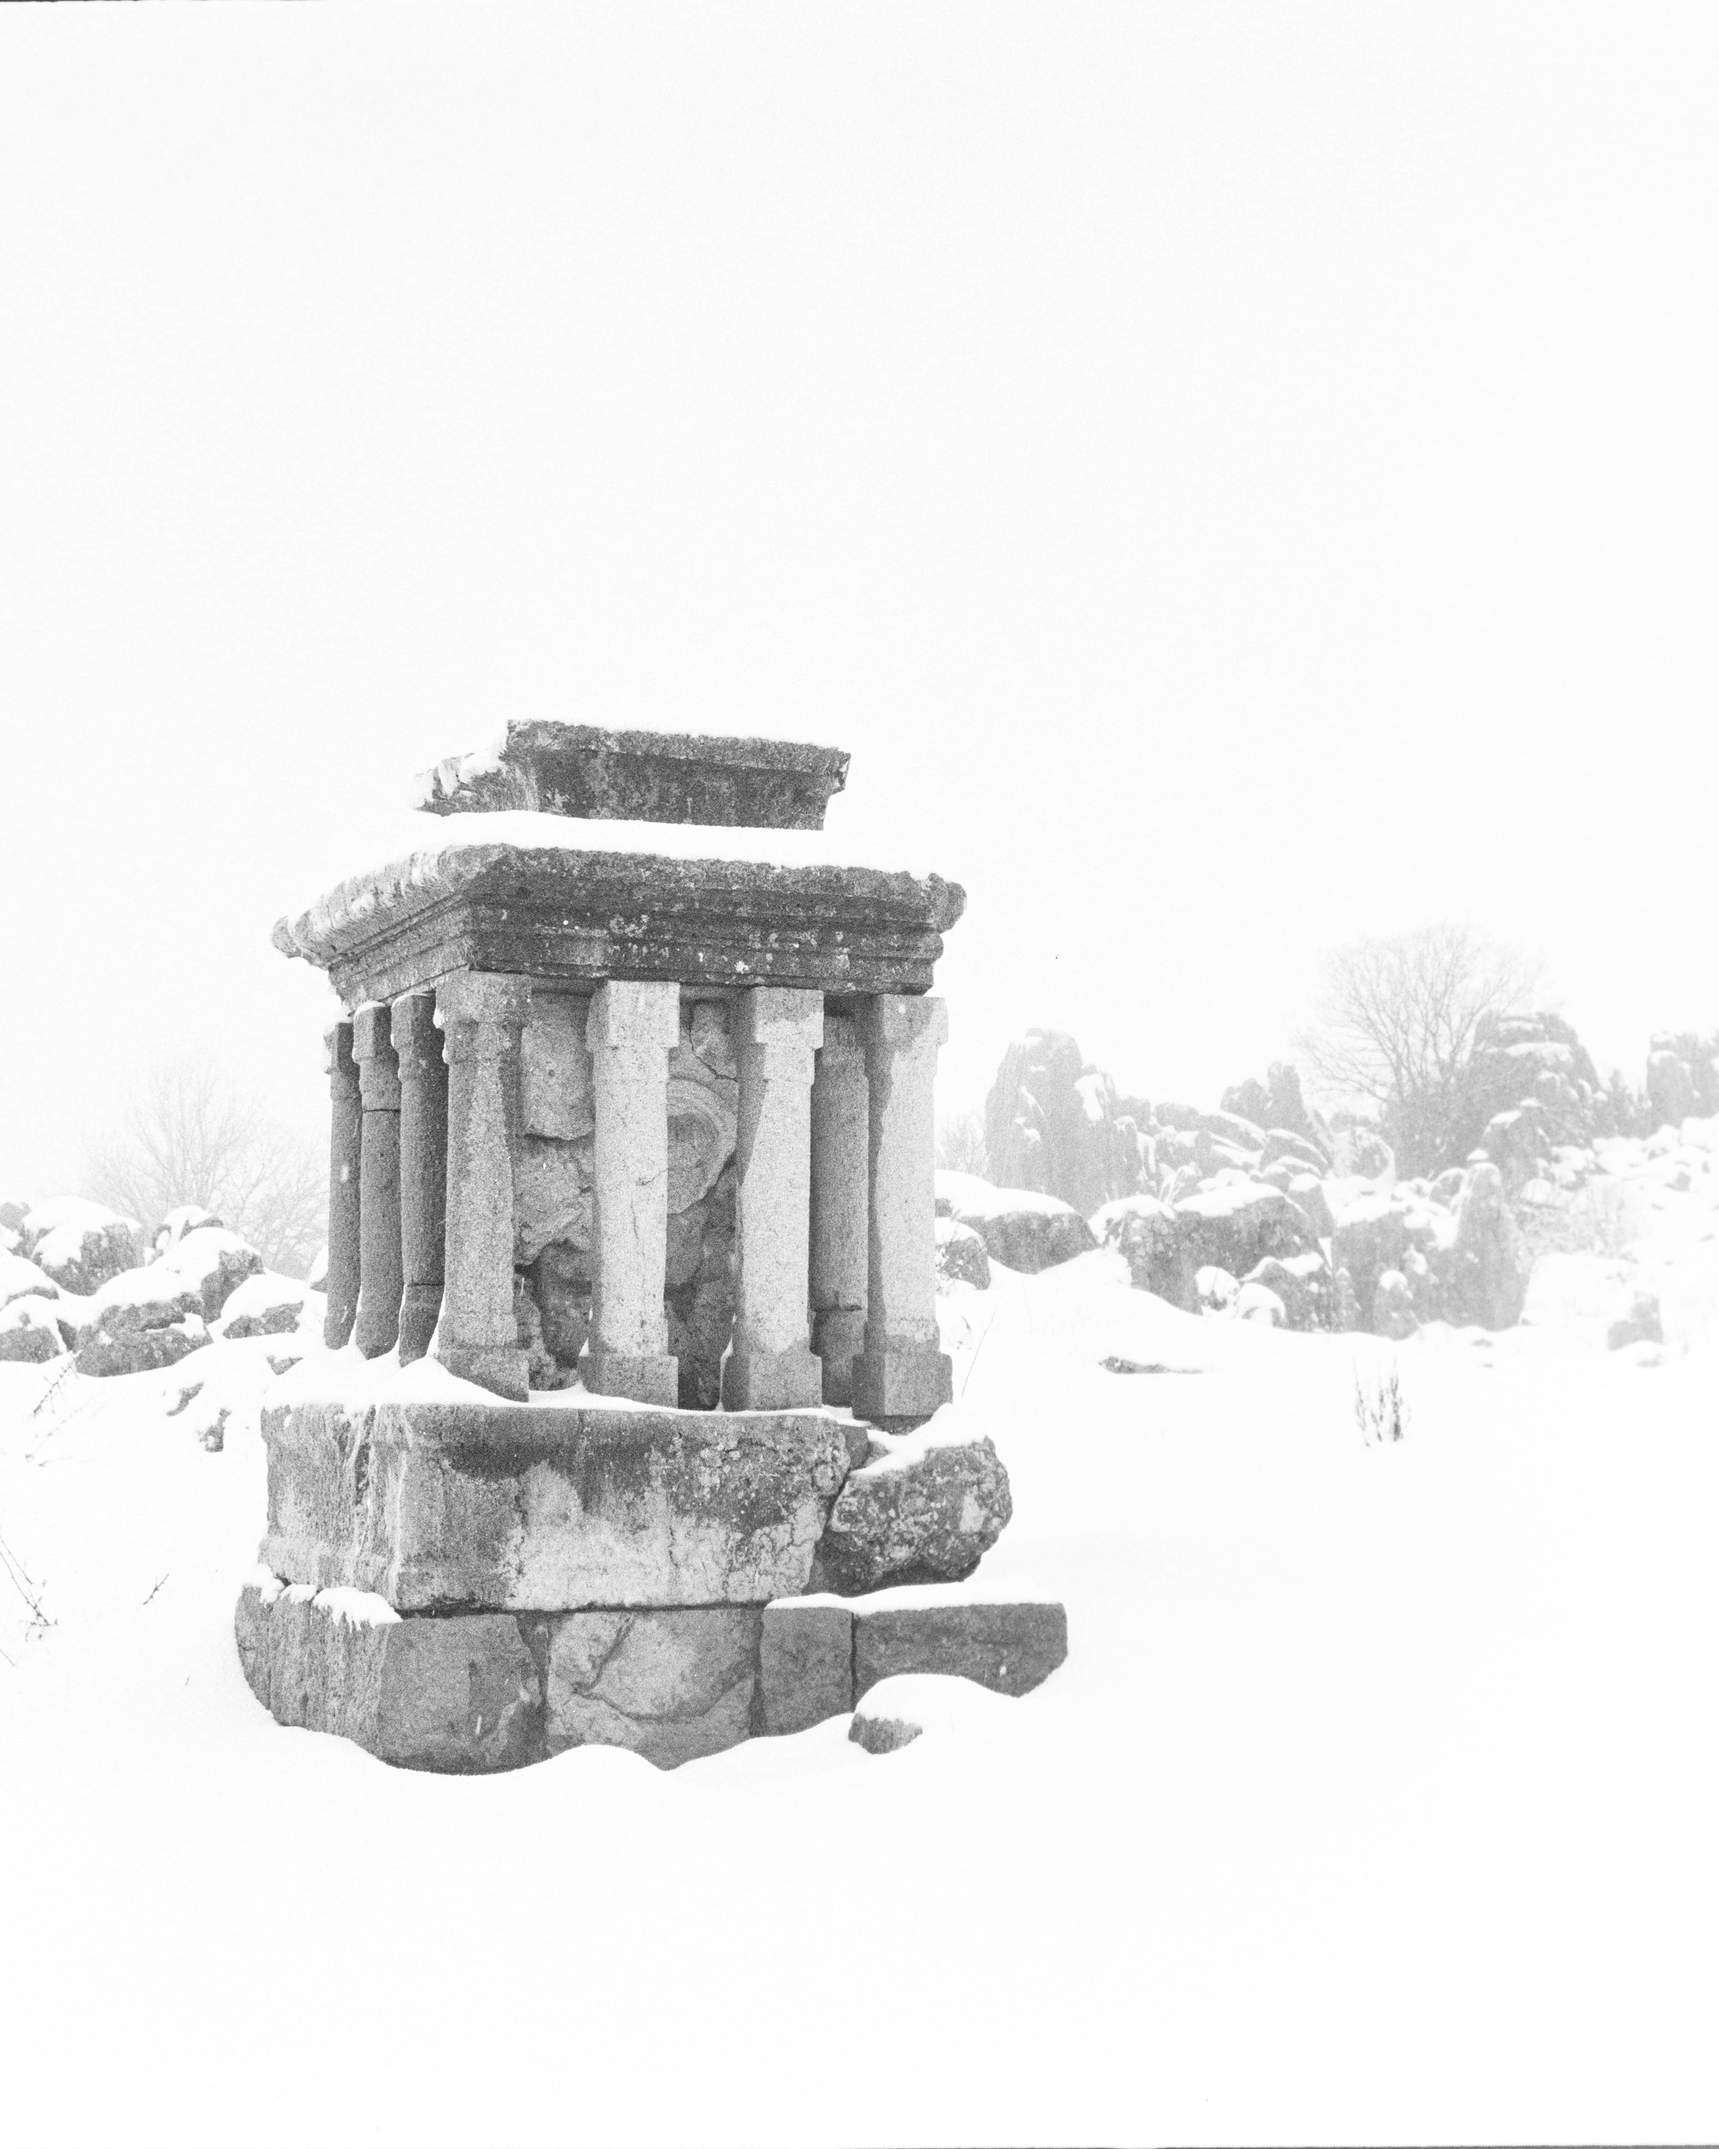
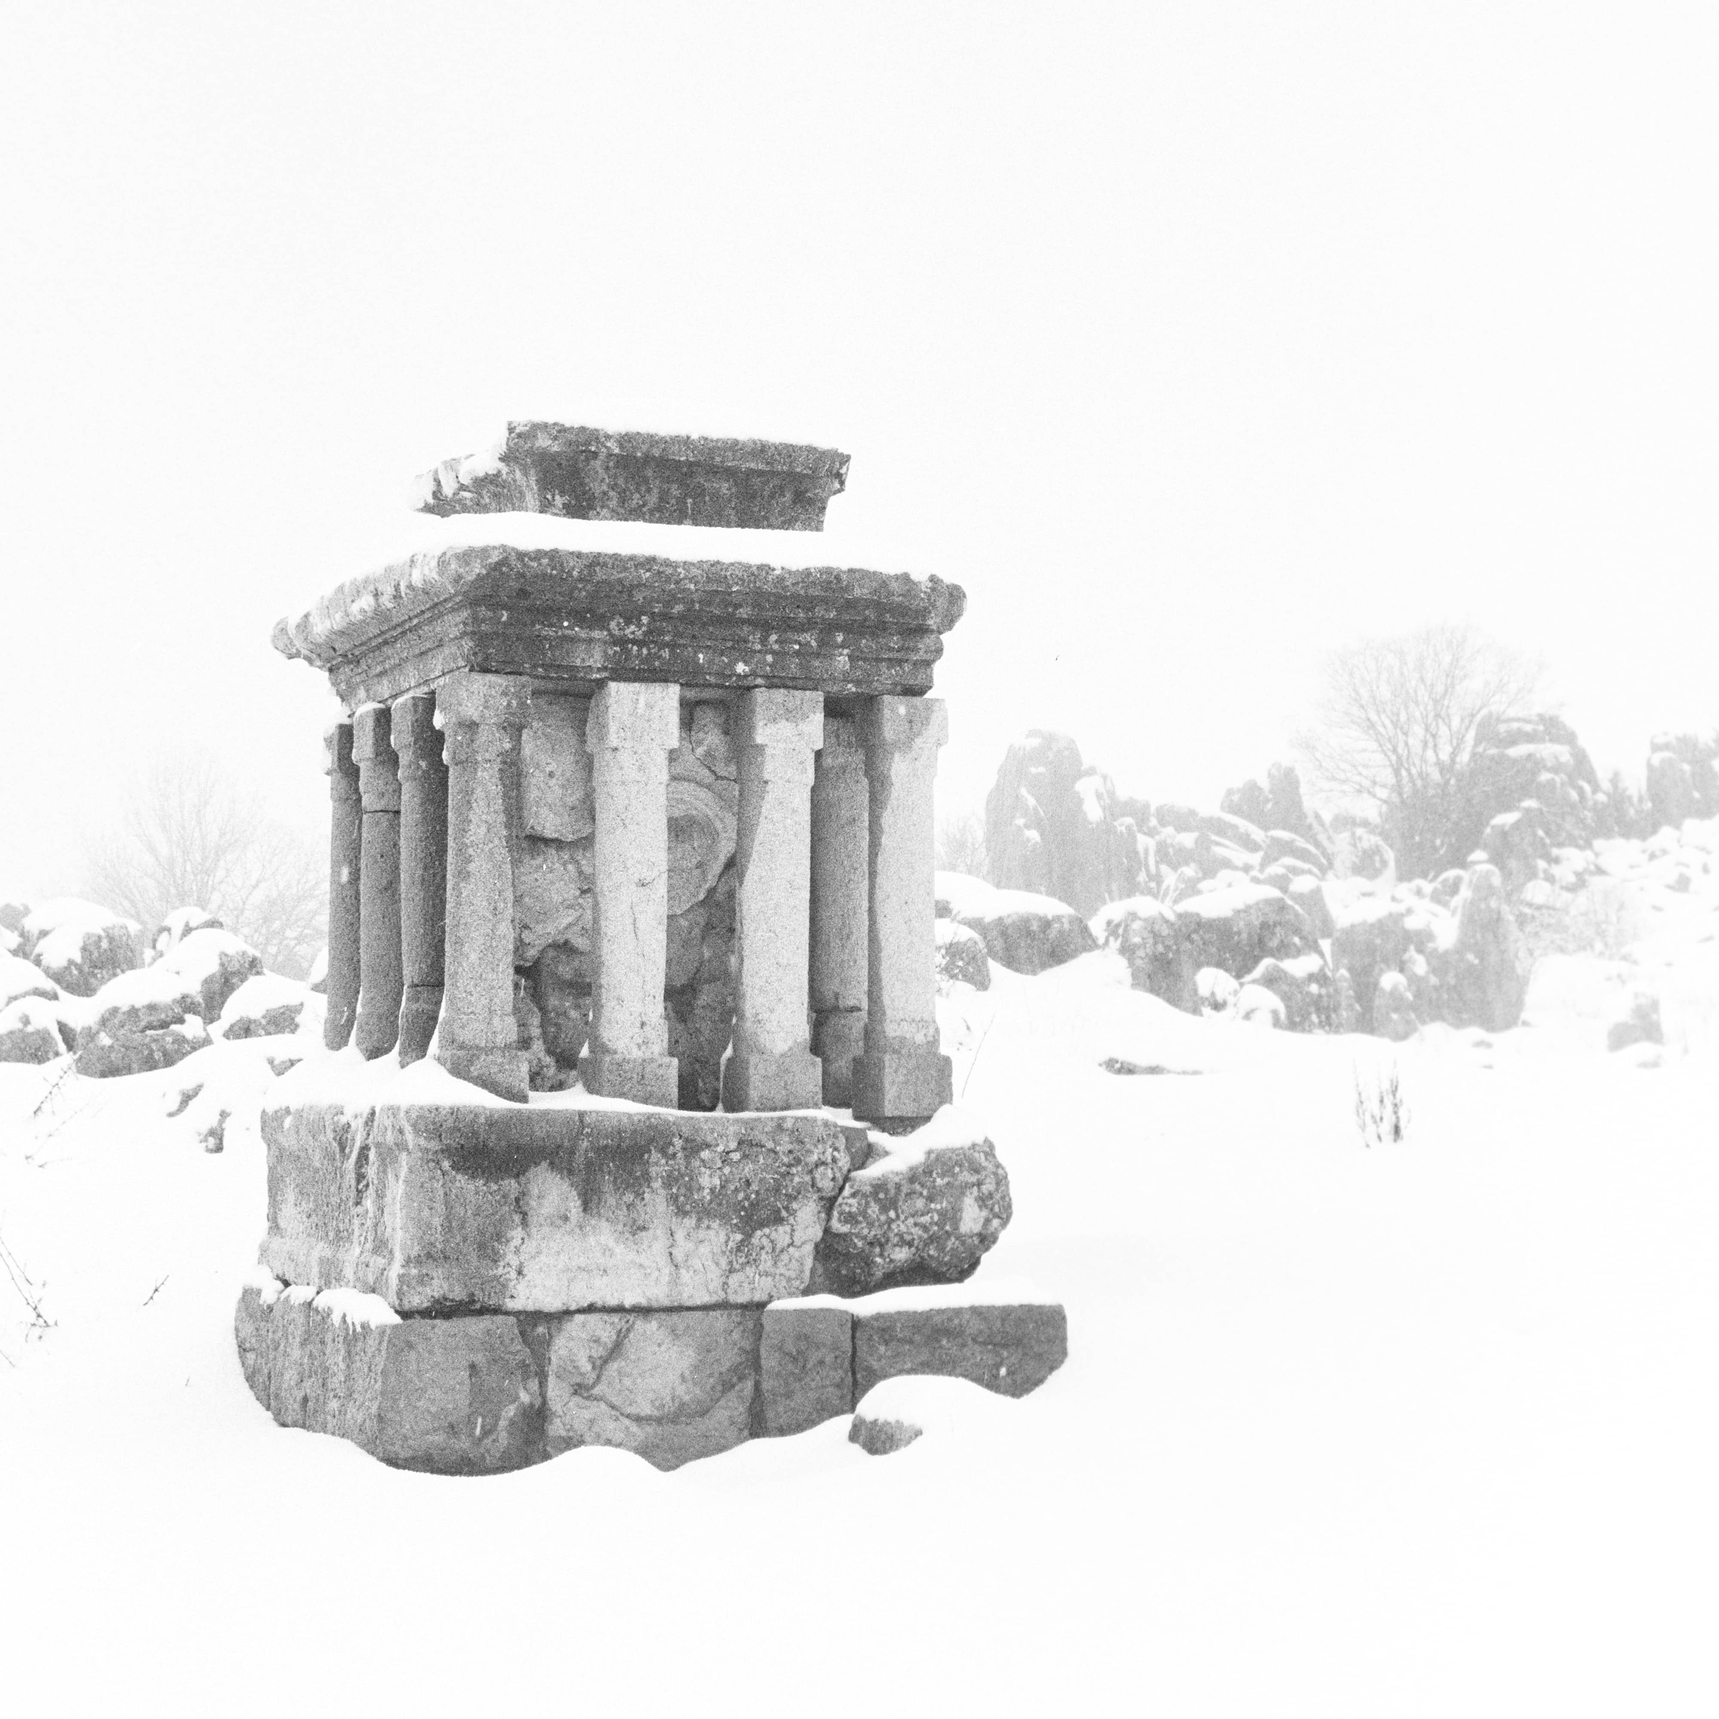
updates

Changed region(s): [[0.0, 0.2188, 1.0, 0.875], [0.0, 0.75, 0.0312, 0.7812]]

diff --git a/works/authority/index.html b/works/authority/index.html
@@ -53,7 +53,7 @@
     <div class="work_row">
         <div class="work_left">
             <div>
-                <p class="work_description">The text in Arabic on the soda can tabs translate to "Try again". Even many tries, despite Amos' most sincere attempts, we are still aggressed on a daily basis.</p>
+                <p class="work_description">The text in Arabic on the soda can tabs translate to "Try again". Even after many tries, despite Amos' most sincere attempts, we are still aggressed on a daily basis.</p>
             </div>
         </div>
         <figure class="work_right">
@@ -466,7 +466,7 @@
         </div>
         <figure class="work_right">
             <img src="/works/authority/encyclopedia.jpg" alt="a33b" class="work_image">
-            <figcaption class="work_caption">the encyclopedia of conceptual art. - 21.5 x 24 x 30 cm - six bound volumes with the printouts of the instillation �automatic art validating machine� from 2019 - politics of the machine - beirut.�</figcaption>
+            <figcaption class="work_caption">the encyclopedia of conceptual art. - 21.5 x 24 x 30 cm - six bound volumes with the printouts of the instillation ""automatic art validating machine"" from 2019 - politics of the machine - beirut.</figcaption>
         </figure>
     </div>
     
@@ -485,7 +485,7 @@
     <div class="work_row">
         <div class="work_left">
             <div>
-                <p class="work_description">All of the printouts were gathered from the floor and compiled into 6 volumes of 310 pages each.�</p>
+                <p class="work_description">All of the printouts were gathered from the floor and compiled into 6 volumes of 310 pages each.</p>
             </div>
         </div>
         <figure class="work_right">

diff --git a/works/altar/index.html b/works/altar/index.html
@@ -31,7 +31,7 @@
 <div id="works_page">
     <div class="work_row">
         <div class="work_left" style="flex-direction: column;">
-            <h1 class="work_title">the altar [May-26]</h1>
+            <h1 class="work_title">the altar [may 2026]</h1>
         </div>
         <div class="work_right">
             <span class="work_blurb">Historically under-described and visually unassuming, the Small Altar resists easy classification. Its scale challenges expectations of sacred grandeur, while its form raises questions about authenticity, restoration, and intent. What appears ancient may be partially reconstructed; what is named an altar may have served another purpose. Absence of records, of certainty becomes central.<br><br>The artist first encountered the altar through its image on the Lebanese 250 lira note, long before seeing it in person. What had been imagined as monumental revealed itself as intimate. This dissonance between image and object became the project's point of departure.<br><br>Working through analog photography and printmaking, The Altar revisits the site through repetition. Images do not document but return, shaped by shifting light, season and perspective. Printmaking extends this into circulation, reintroducing the altar onto currency and public domain, where value and authorship play on collective memory.<br><br>Rather than resolving questions, The Altar remains an open inquiry into a site that persists in uncertainty.</span>

diff --git a/works/index.html b/works/index.html
@@ -47,7 +47,7 @@
             </div>
             <div class="project_callsign">
                 <span class="project_title">the altar</span>
-                <span class="project_timerange">May-26</span>
+                <span class="project_timerange">may 2026</span>
             </div>
         </a>
         
